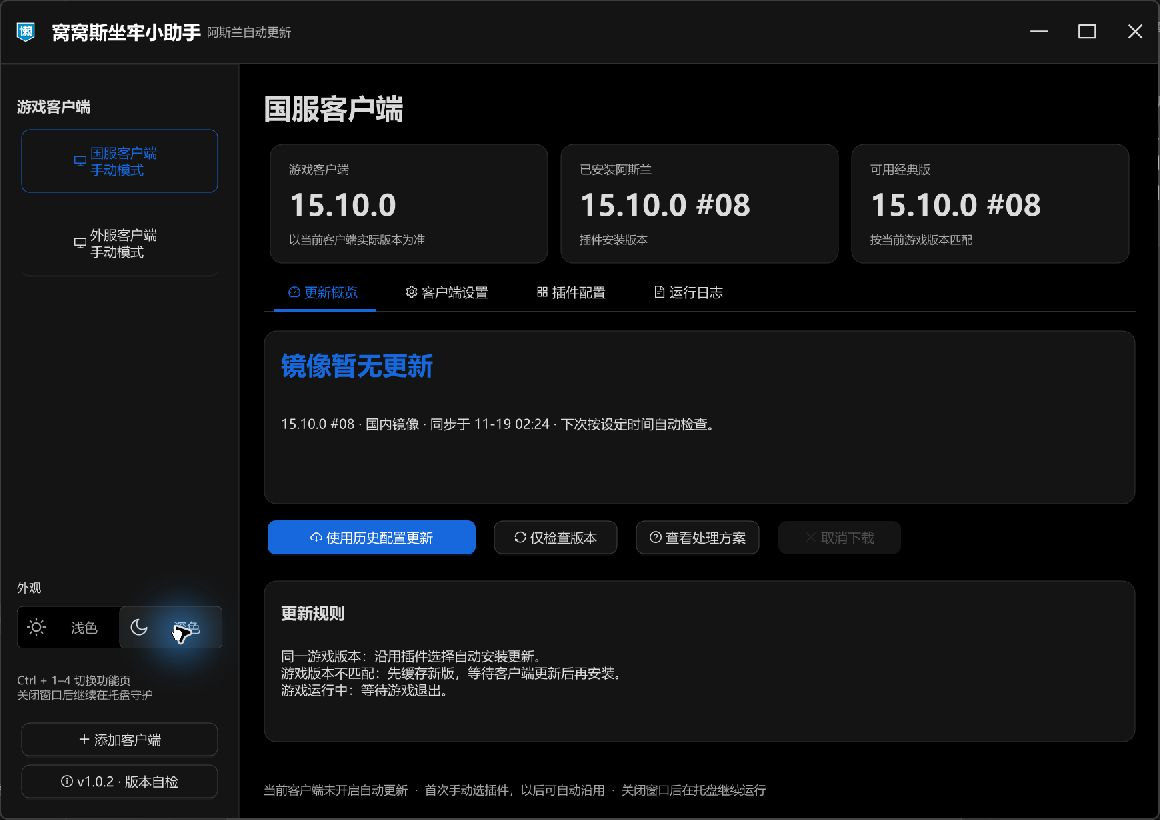
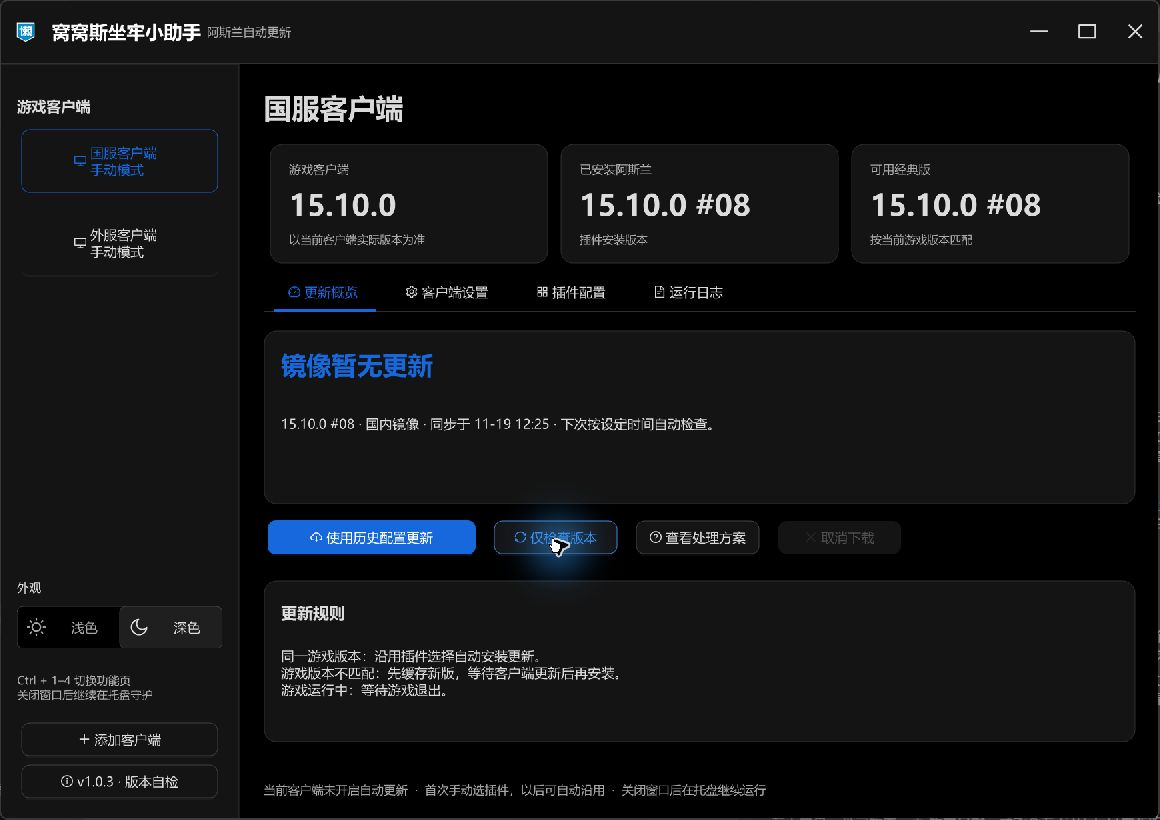
Release 1.0.3: fix scrolling repaint artifacts and document download routes

diff --git a/tests/UiTests.cs b/tests/UiTests.cs
@@ -44,6 +44,19 @@ namespace AslainAssistant
             }
             return null;
         }
+        static Bitmap NavigationImage(AntdUI.Tabs tabs)
+        {
+            var image=new Bitmap(tabs.Width,tabs.Pages[tabs.SelectedIndex].Top);
+            tabs.DrawToBitmap(image,new Rectangle(Point.Empty,image.Size));
+            return image;
+        }
+        static bool SamePixels(Bitmap first,Bitmap second)
+        {
+            if(first.Size!=second.Size)return false;
+            for(int y=0;y<first.Height;y++)for(int x=0;x<first.Width;x++)
+                if(first.GetPixel(x,y)!=second.GetPixel(x,y))return false;
+            return true;
+        }
         static void Run(Dashboard form)
         {
             var pages = (AntdUI.Tabs)Field(form,"pages");
@@ -52,6 +65,61 @@ namespace AslainAssistant
             first.Game = new GameState { GameVersion = "15.10.0", HasInstallation = true, Installed = PackVersion.Parse("15.10.0_08") };
             first.Release = new Release { Version = PackVersion.Parse("15.10.0_09") };
             Call(form,"RefreshUi");
+            Test("settings and presets repaint the full viewport when scrolled in both themes",()=>
+            {
+                var theme=(AntdUI.Segmented)Field(form,"themeMode");
+                int previousTheme=theme.SelectIndex,previousPage=pages.SelectedIndex; Size previousSize=form.Size;
+                bool animation=AntdUI.Config.Animation;AntdUI.Config.Animation=false;
+                try
+                {
+                    form.Size=form.MinimumSize;
+                    foreach(int mode in new[]{0,1})
+                    {
+                        theme.SelectIndex=mode;
+                        foreach(int index in new[]{1,2})
+                        {
+                            pages.SelectedIndex=index; UiTheme.LayoutVisible(pages); Application.DoEvents();
+                            var viewport=pages.Pages[index].Controls.OfType<AntdUI.StackPanel>().Single();
+                            Assert(viewport.YScroll!=null && viewport.YScroll.Visible,"Test page must overflow");
+                            int invalidations=0,navigationInvalidations=0;
+                            InvalidateEventHandler painted=(sender,e)=>{if(e.InvalidRect.Contains(viewport.ClientRectangle))invalidations++;};
+                            InvalidateEventHandler navigationPainted=(sender,e)=>{if(e.InvalidRect.Contains(pages.ClientRectangle))navigationInvalidations++;};
+                            viewport.Invalidated+=painted;
+                            pages.Invalidated+=navigationPainted;
+                            try
+                            {
+                                using(var navigation=NavigationImage(pages))
+                                foreach(int delta in new[]{-120,-360,120,360,-240,240})
+                                {
+                                    int before=viewport.YScroll.Value; invalidations=0; navigationInvalidations=0;
+                                    var wheel=new HandledMouseEventArgs(MouseButtons.None,0,10,10,delta);
+                                    typeof(Control).GetMethod("OnMouseWheel",Flags).Invoke(viewport.Controls[0].Parent,new object[]{wheel});
+                                    if(viewport.YScroll.Value!=before)
+                                    {
+                                        Assert(invalidations>0,"Scroll left old pixels without a full viewport repaint: page "+index+", theme "+mode);
+                                        Assert(navigationInvalidations>0,"Scroll erased the navigation without repainting it");
+                                    }
+                                    Application.DoEvents();
+                                    using(var after=NavigationImage(pages))
+                                    {
+                                        if(!SamePixels(navigation,after))
+                                        {
+                                            navigation.Save(Path.Combine(Storage.Root,"navigation-before.png"));after.Save(Path.Combine(Storage.Root,"navigation-after.png"));
+                                            Assert(false,"Scrolling changed the tab navigation pixels; evidence: "+Storage.Root);
+                                        }
+                                    }
+                                    var visibleCards=viewport.Controls.Cast<Control>().Where(c=>c.Visible).OrderBy(c=>c.Top).ToArray();
+                                    for(int i=1;i<visibleCards.Length;i++) Assert(visibleCards[i-1].Bottom<visibleCards[i].Top,"Cards overlap after scrolling");
+                                }
+                                Assert(viewport.BackColor.A==255 && viewport.BackColor==UiTheme.Background,"Scroll viewport must repaint with the current theme background");
+                                Assert(viewport.Controls[0].Parent.BackColor==UiTheme.Background,"Inner scroll surface lost the theme background");
+                            }
+                            finally {viewport.Invalidated-=painted;pages.Invalidated-=navigationPainted;}
+                        }
+                    }
+                }
+                finally {theme.SelectIndex=previousTheme;form.Size=previousSize;pages.SelectedIndex=previousPage;UiTheme.LayoutVisible(pages);AntdUI.Config.Animation=animation;}
+            });
             Test("assistant version is visible and self-check controls fit in both themes",()=>
             {
                 var self=(SelfUpdateEngine)Field(form,"selfUpdate");

diff --git a/src/UiTheme.cs b/src/UiTheme.cs
@@ -19,6 +19,7 @@ namespace AslainAssistant
         static readonly Dictionary<Control,Action> themeBindings = new Dictionary<Control,Action>();
         public static void Initialize(bool dark = false)
         {
+            AntdUI.Config.Animation = false;
             AntdUI.Config.Mode = dark ? AntdUI.TMode.Dark : AntdUI.TMode.Light;
             AntdUI.Config.TextRenderingHighQuality = true;
             AntdUI.Config.TextRenderingHint = System.Drawing.Text.TextRenderingHint.AntiAliasGridFit;
@@ -65,6 +66,23 @@ namespace AslainAssistant
             // AntdUI layout follows WinForms z-order, from last child to first.
             for (int i = children.Length - 1; i >= 0; i--) { children[i].Margin = Padding.Empty; panel.Controls.Add(children[i]); }
             return panel;
+        }
+        public static void ScrollPage(AntdUI.StackPanel panel, AntdUI.Tabs tabs)
+        {
+            // A moving viewport must paint its own background. Transparent nested
+            // containers otherwise ask Tabs to repaint while child windows move.
+            panel.AutoContainerBgTransparent = false;
+            Bind(panel,()=>{panel.BackColor = Background; panel.Back = Background;});
+            panel.AutoScroll = true;
+            // StackPanel moves existing child windows on ValueChanged. Repaint the
+            // entire subtree after its layout, including newly exposed card text.
+            panel.YScroll.ValueChanged += (s,e)=>
+            {
+                panel.Invalidate(true);
+                // Child-window moves can also invalidate the tab strip's backing
+                // pixels. Repaint the navigation without relaying out the pages.
+                tabs.Refresh();
+            };
         }
         public static AntdUI.FlowPanel Actions(params Control[] children)
         {

diff --git a/src/Dashboard.cs b/src/Dashboard.cs
@@ -12,6 +12,17 @@ namespace AslainAssistant
 {
     public sealed partial class Dashboard : AntdUI.Window
     {
+        protected override CreateParams CreateParams
+        {
+            get
+            {
+                var parameters=base.CreateParams;
+                // Compose AntdUI's nested child windows in one frame while cards
+                // move, instead of showing partially repainted transparent layers.
+                parameters.ExStyle |= 0x02000000; // WS_EX_COMPOSITED
+                return parameters;
+            }
+        }
         // Login/update launches must not steal focus from a running game. An
         // explicit user activation still calls Activate() in Reveal().
         protected override bool ShowWithoutActivation { get { return background; } }

diff --git a/src/Dashboard.View.cs b/src/Dashboard.View.cs
@@ -138,7 +138,7 @@ namespace AslainAssistant
         {
             var page = new Ant.TabPage { Text = name, IconSvg = icon, Padding = new Padding(0,16,0,0), BackColor = UiTheme.Background };
             UiTheme.Bind(page,()=>page.BackColor = UiTheme.Background);
-            var column = content as Ant.StackPanel; if (column != null) column.AutoScroll = true;
+            var column = content as Ant.StackPanel; if (column != null) UiTheme.ScrollPage(column,pages);
             page.Controls.Add(content); pages.Pages.Add(page); return page;
         }
         void BuildUi()

diff --git a/src/AssemblyInfo.cs b/src/AssemblyInfo.cs
@@ -2,5 +2,5 @@ using System.Reflection;
 [assembly: AssemblyTitle("窝窝斯坐牢小助手")]
 [assembly: AssemblyProduct("窝窝斯坐牢小助手")]
 [assembly: AssemblyDescription("阿斯兰更新助手 · 多客户端仪表盘")]
-[assembly: AssemblyVersion("1.0.2.0")]
-[assembly: AssemblyFileVersion("1.0.2.0")]
+[assembly: AssemblyVersion("1.0.3.0")]
+[assembly: AssemblyFileVersion("1.0.3.0")]

diff --git a/README.md b/README.md
@@ -6,7 +6,7 @@
 
 选一次插件，以后让它定期检查、下载并安装。国服、外服分开管理；也能直接导入群友的配置，省得对着截图挨个勾选。
 
-**[下载 1.0.2 安装包](https://github.com/REREREGO/wows-aslain-assistant/releases/download/v1.0.2/AslainAssistant.Setup.1.0.2.exe)** · [更新说明](https://github.com/REREREGO/wows-aslain-assistant/releases/tag/v1.0.2) · [反馈问题](https://github.com/REREREGO/wows-aslain-assistant/issues)
+**[下载 1.0.3 安装包](https://github.com/REREREGO/wows-aslain-assistant/releases/download/v1.0.3/AslainAssistant.Setup.1.0.3.exe)** · [更新说明](https://github.com/REREREGO/wows-aslain-assistant/releases/tag/v1.0.3) · [反馈问题](https://github.com/REREREGO/wows-aslain-assistant/issues)
 
 适用于 Windows，需要 .NET Framework 4.8。更新的是阿斯兰**经典模组包**。
 
@@ -46,11 +46,40 @@
 - **模组包比游戏版本新**：先下载，等游戏更新到对应版本再安装。
 - **网络断了**：保留现有模组和配置；开启自动更新时，约 15 分钟后重试。
 
-1.0.1 支持国内查询和下载：版本信息从 [Gitee](https://gitee.com/rererergo/aslain_versions) 读取，安装包从 [GitCode](https://gitcode.com/REREREGO/aslain_versions/releases) 下载，失败时再尝试官网。
+## 国内、国外怎么查版本和下载
 
-**客户端设置 → 国内镜像** 还有蓝奏云备用入口，提取码 `6fpw`。手动下载后，点 **导入已下载的安装包**，校验通过就能用于安装。
+下面两条路线用于更新**阿斯兰模组包**。助手自身的安装包和版本自检仍走本仓库的 [GitHub 发行版](https://github.com/REREREGO/wows-aslain-assistant/releases)。
+
+| 路线 | 在哪里查版本 | 从哪里下载安装包 |
+| --- | --- | --- |
+| **国内镜像（默认）** | [Gitee 版本清单仓库](https://gitee.com/rererergo/aslain_versions)，依次尝试原始文件和公开 API | [GitCode 发行版](https://gitcode.com/REREREGO/aslain_versions/releases)，提供官网原始 `.exe` |
+| **国外官网直连** | [Aslain 经典版发布帖](https://aslain.com/index.php?/topic/2020-download-%E2%98%85-world-of-warships-%E2%98%85-modpack/) | 发布帖中的安装包，助手从 `filez.aslain.com` 下载 |
+
+所有地区默认都按“国内优先、官网备用”的顺序访问：国内清单不可用时改查官网；GitCode 下载失败时尝试官网下载安装包。国内清单读取成功，就以镜像已同步的版本为准。Gitee 的两个查询入口属于同一个平台。
+
+海外用户或能稳定访问官网的用户，可以到 **客户端设置 → 国内镜像 → 版本源设置**，清空地址并保存，之后直接查官网、从官网下载。这项来源设置对所有客户端生效。
+
+手工下载备用：[蓝奏云目录](https://wwbcm.lanzouq.com/b01i60xlde)，提取码 `6fpw`；软件里的 **客户端设置 → 国内镜像 → 蓝奏云下载** 也能打开。先点 **仅检查版本**，再下载相同版本的 `.exe`，点 **导入已下载的安装包**，校验通过就能用于安装。蓝奏云由维护者手工补包，是否已有所需版本以目录为准。
 
 阿斯兰安装器中的部分插件仍需连接它自己的下载服务器，所以拿到安装包不代表所有插件都能离线安装。
+
+### 预计最多要等多久
+
+从官网发布**与你的游戏版本匹配**的安装包开始，按默认每小时检查、助手持续在线且空闲、云端任务按时启动并一次同步成功估算：
+
+| 路线 | 安装包在该来源可用 | 助手自动发现新版的保守预估 |
+| --- | --- | --- |
+| 官网直连 | 无需等待镜像同步 | 约 **1 小时**，另加查询耗时 |
+| 国内镜像 | 约 **1 小时 35 分钟以内** | 约 **2 小时 35 分钟**，另加查询耗时 |
+
+国内同步任务设为每小时第 17 分钟检查官网，单次任务限时 35 分钟，因此按“等下一轮最多 60 分钟 + 同步预留 35 分钟 + 助手默认检查间隔 60 分钟”计算。若你改了检查间隔，就把最后的 60 分钟换成自己的设置。点 **仅检查版本** 或 **使用历史配置更新** 可以立即检查，省去本地等下一轮的时间。
+
+**这是正常运行时的预估，不是保证的最高延迟。** [GitHub 定时任务可能排队延迟或被跳过](https://docs.github.com/en/actions/reference/workflows-and-actions/events-that-trigger-workflows#schedule)，同步失败还需等后续重试；断网、助手退出、其他客户端正在安装等情况也会延后。上表不包含下载安装时间，游戏运行中仍会等待你退出后再安装。
+
+单次查询和下载遇到卡顿时，助手按以下时间换源或报错：
+
+- **查版本**：每个国内入口限时 8 秒，官网限时 45 秒。默认两个国内入口全部超时、再尝试官网，按超时设置合计约 **61 秒**；仅官网约 **45 秒**。这与上面的新版同步延迟是两回事。
+- **下载安装包**：每个来源连接等待 15 秒，连续 30 秒收不到数据会中止该次尝试，单个来源总时限 30 分钟；失败后尝试下一来源。下载速度取决于网络，这些是失败退出的时限，不代表一定能在时限内下载完成。
 
 ## 助手自己的版本
 
@@ -60,7 +89,7 @@
 
 左下角也可以切换深浅主题，重启后会记住。
 
-![1.0.2 深色界面](docs/images/dashboard-dark.jpg)
+![1.0.3 深色界面](docs/images/dashboard-dark.jpg)
 
 ## 装完发现少了插件
 
@@ -101,7 +130,8 @@ made with GPT 6 Astra。
 
 | 版本 | 主要变化 | 安装包 |
 | --- | --- | --- |
-| **1.0.2（最新）** | 修复助手下载卡住时取消不生效，统一下载超时处理 | [下载](https://github.com/REREREGO/wows-aslain-assistant/releases/download/v1.0.2/AslainAssistant.Setup.1.0.2.exe) |
+| **1.0.3（最新）** | 修复客户端设置、插件配置滚动残影 | [下载](https://github.com/REREREGO/wows-aslain-assistant/releases/download/v1.0.3/AslainAssistant.Setup.1.0.3.exe) |
+| 1.0.2 | 修复助手下载卡住时取消不生效，统一下载超时处理 | [下载](https://github.com/REREREGO/wows-aslain-assistant/releases/download/v1.0.2/AslainAssistant.Setup.1.0.2.exe) |
 | 1.0.1 | 国内版本源与下载镜像、助手版本自检 | [下载](https://github.com/REREREGO/wows-aslain-assistant/releases/download/v1.0.1/AslainAssistant.Setup.1.0.1.exe) |
 
 [查看全部发行记录](https://github.com/REREREGO/wows-aslain-assistant/releases)

diff --git a/docs/RELEASING.md b/docs/RELEASING.md
@@ -1,6 +1,6 @@
 # 发布新版助手
 
-只有用户明确要求“发布”时才执行本文的发布步骤。日常开发仅在本地构建、测试和安装，不递增版本号、不推送仓库，也不生成或上传发布更新清单。用户已于 2026-11-19 授权检查冗余、充分测试并更新 GitHub 应用，本次发布 1.0.2，包括源码、README、安装包与更新清单；海猴雷达继续留在本地，不进入本次发布。此授权不延续到后续迭代。
+只有用户明确要求“发布”时才执行本文的发布步骤。日常开发仅在本地构建、测试和安装，不递增版本号、不推送仓库，也不生成或上传发布更新清单。用户已于 2026-11-19 授权修复滚动残影后发布 1.0.3，包括源码、最新 README、安装包与更新清单；海猴雷达继续留在本地，不进入本次发布。此授权不延续到后续迭代。
 
 用户单独要求推送到 GitHub 时，只同步当前源码，保持版本号，不自动发布安装包。
 
@@ -16,7 +16,7 @@
 
 1. 确认 `src/AssemblyInfo.cs` 使用用户指定的版本号，不自行递增；更新 README、实际界面截图及文末的全部版本下载列表。
 2. 构建正式文件，运行业务测试和界面测试。
-3. 在 GitHub 创建对应标签的草稿 Release，上传带版本号的安装包，例如 `AslainAssistant.Setup.1.0.2.exe`。构建脚本按程序集版本自动生成该文件；不带版本号的副本仅供本地脚本使用。
+3. 在 GitHub 创建对应标签的草稿 Release，上传带版本号的安装包，例如 `AslainAssistant.Setup.1.0.3.exe`。构建脚本按程序集版本自动生成该文件；不带版本号的副本仅供本地脚本使用。
 4. 用 `tools/Sign-Release.ps1` 生成 `updates/latest.json`，下载地址必须指向这次 Release 的安装器。可同时填入该资产的 GitHub API 下载地址作为备用。
 5. 将 `latest.json` 作为 Release 资产上传，并提交到仓库的 `updates/latest.json`。
 6. 确认安装器与签名对应后，将草稿 Release 发布并明确设为 Latest（API `make_latest: "true"`）。1.0.1 的编号低于历史 1.4.x，不能依赖按版本号推断最新版。
@@ -28,7 +28,7 @@
 .\build.ps1 -OutputDirectory release
 .\release\AslainAssistant.Tests.exe
 .\release\AslainAssistant.UiTests.exe
-.\tools\Sign-Release.ps1 -Version 1.0.2
+.\tools\Sign-Release.ps1 -Version 1.0.3
 ```
 
 正式发布时，不要重用已发布的版本号替换不同的安装包。本地开发可以反复构建并覆盖安装同一版本，无需签发更新清单。

diff --git a/AGENTS.md b/AGENTS.md
@@ -9,6 +9,7 @@
 - 用户于 2026-11-19 明确授权正式发布 1.0.1：同步源码与重写后的 README、上传助手安装包、签发更新清单；海猴雷达代码、资源和功能继续仅保留本地，不进入此次发布。后续迭代仍需新的发布授权，版本保持 1.0.1，直到用户明确要求调整。
 - 用户随后要求移除 README 中 1.4.x 的旧版本下载项。下载列表从 1.0.1 开始，包含最新版及此后的全部历史版本，暂不限制数量或保留时间。未要求删除 GitHub 旧 Release、标签或安装包；此要求不改变阿斯兰镜像自身的保留策略。
 - 用户于 2026-11-19 再次明确授权：检查代码冗余、充分测试后更新 GitHub 应用版本；本次维护更新使用 1.0.2。用户再次强调海猴雷达不得发布：源码、资源、依赖及安装包均须排除。后续日常开发保持 1.0.2，新的远程发布仍需明确授权。
+- 用户随后明确授权修复客户端设置、插件配置滚动残影后发布 1.0.3，并同步最新 README。海猴雷达继续仅留本地；后续日常开发保持 1.0.3，新一轮发布仍需单独授权。
 - 本机助手自身的自动更新保持关闭，避免已发布的较高版本覆盖本地开发版；各客户端的阿斯兰插件自动更新设置独立保留。
 - Gitee 等仓库写入令牌和镜像签名私钥只能放在本机凭据目录或 CI 加密 Secrets 中，禁止提交源码、嵌入程序或打入安装包；推送前检查源码和构建产物。
 

diff --git a/docs/MIRRORS.md b/docs/MIRRORS.md
@@ -1,6 +1,6 @@
 # 国内阿斯兰镜像
 
-玩家电脑不必先访问阿斯兰官网才能查版本：助手优先读取国内托管的 `catalog.json`，挑选与当前游戏版本匹配的最新安装包。三个版本源按顺序尝试，每个最多等待 8 秒；全部不可用时回退官网。过期、签名错误的清单不会用于安装。查询失败时保留现有插件和配置，按原有网络重试机制恢复。
+玩家电脑不必先访问阿斯兰官网才能查版本：助手优先读取国内托管的 `catalog.json`，挑选与当前游戏版本匹配的最新安装包。默认两个国内查询入口，最多可配置三个，按顺序尝试，每个最多等待 8 秒；全部不可用时回退官网。过期、签名错误的清单不会用于安装。查询失败时保留现有插件和配置，按原有网络重试机制恢复。
 
 版本清单和下载地址分开维护。清单可以放在 Gitee 仓库及另一个国内 HTTPS 站点；其中的安装包可以有多个下载地址。安装包必须同时通过文件大小、Windows PE 格式和官网 SHA-256 校验，失败自动换源。助手自身更新仍使用原来的 GitHub 发布渠道。
 

diff --git a/docs/TESTING.md b/docs/TESTING.md
@@ -17,6 +17,16 @@
 .\build\AslainAssistant.InstanceTests.exe
 ```
 
+## 1.0.3 验证记录
+
+2026-11-19 针对客户端设置、插件配置滚动残影完成：
+
+- 91 项业务回归通过；19 项界面检查分别在 100% 和 150% 缩放下通过。
+- 新增滚动回归：深浅主题、最小窗口、连续正反向滚轮输入；检查卡片间距、背景主题、完整重绘，以及滚动前后导航区域的像素一致性。旧实现会触发“滚动后缺少完整重绘”的失败。
+- 实机操作两页快速来回滚动，用户确认显示恢复正常。
+- 4 项单实例检查通过；实际覆盖安装能关闭旧助手，安装版本、桌面及开始菜单快捷方式正确，原有配置和自启设置保留。
+- 发布安装包检查组件库依赖、海猴雷达排除和私密凭据泄漏；游戏及模组未改动。
+
 ## 1.0.2 验证记录
 
 2026-11-19 在 Windows / .NET Framework 4.8 上完成：
